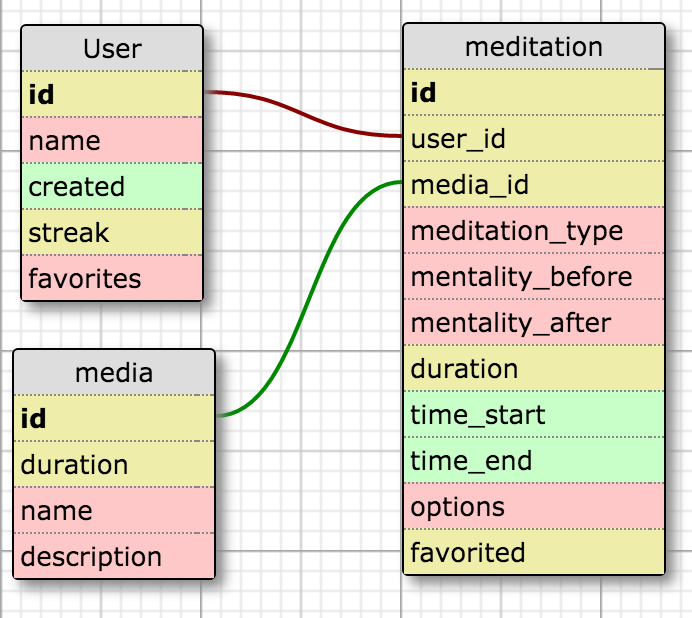
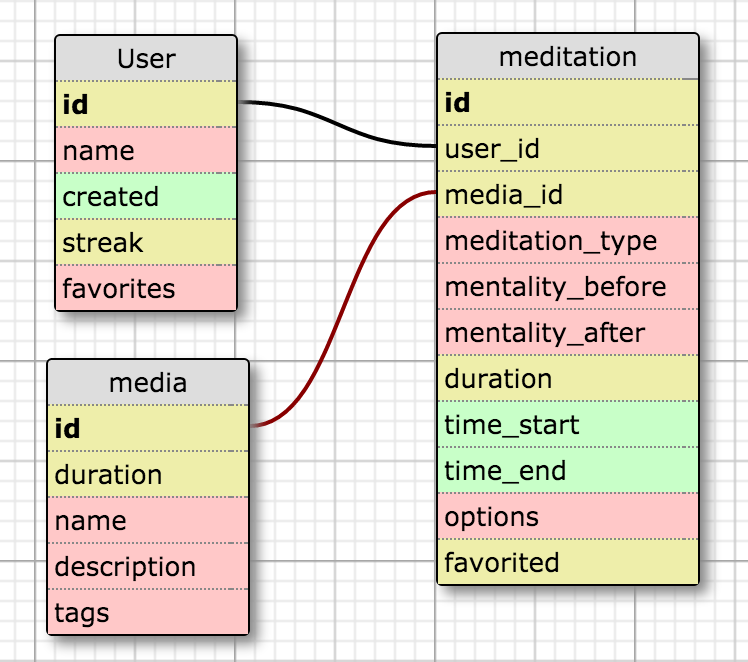
more dataschema

diff --git a/README.md b/README.md
@@ -22,3 +22,4 @@ This app will help people start out or supplement their existing meditation prac
 
 ### Data Schema
 <img src='dataSchema.png' title='Data Schema' width='' alt='Data Schema' />
+To update, copy the dataSchema.xml file and load it [at this url](http://ondras.zarovi.cz/sql/demo/)
